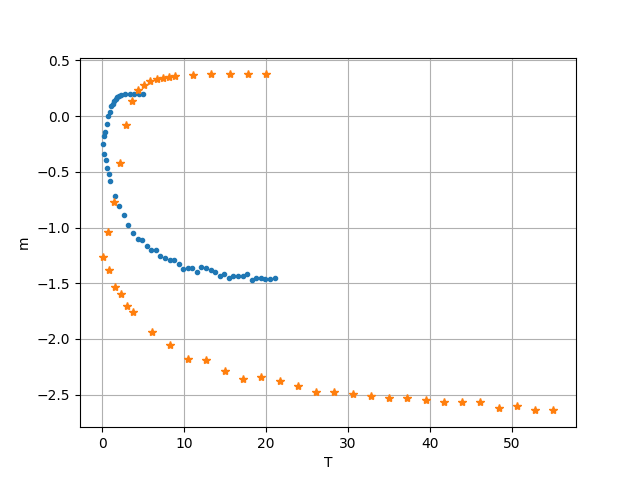
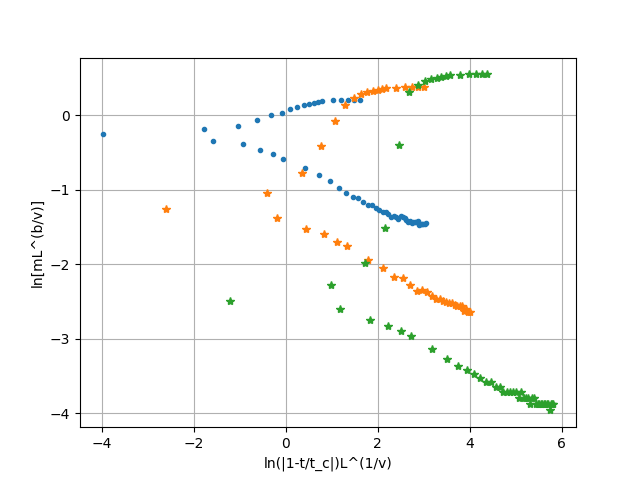
dziala

diff --git a/plot.py b/plot.py
@@ -15,22 +15,29 @@ f33= " opt33"
 b = 0.125
 v = 1 
 def transform_data(x,y,L):
-    T_c = 2.69
-    print("x" , x)
-    print("y", y)
-    print("L", L)
+    T_c = 2.269
+    #print("x" , x)
+    #print("y", y)
+    #print("L", L)
     L_y=math.pow(L, b/v)
-    print("L_y", L_y)
+    #print("L_y", L_y)
     y_n = np.multiply(y,L_y)
-    print("y_n" , y_n)
+    #print("y_n" , y_n)
     y_n = [math.log(a) for a in y_n]
-    print("y_n" , y_n)
-    
+    #print("y_n" , y_n)
+    print(L) 
     L_x = math.pow(L,v)
+    print("Lx", L_x,) 
+    print("x \n",x)
     x_n = np.multiply(x, 1/T_c) 
-    x_n =  [b-1 for b in x_n] 
+    print("x_n \n",x_n)
+    x_n =  [-b+1 for b in x_n] 
+    print("-x_n+ 1 \n",x_n)
+
     x_n = [abs(a) for a in x_n ]
+    print("abs x_n \n",x_n)
     x_n = np.multiply(x_n,L_x)  
+    x_n = [math.log(a) for a in x_n]
     return x_n, y_n  
 
 print("STARTING ...")
@@ -53,11 +60,17 @@ if(option  == " 3 " ):
     y = data[1]
     plt.plot(x, y,"*" )# Plot some data on the (implicit) axes.
 
+    data = pd.read_csv("opt33",sep=' ,',header=None, engine = 'python')
+    data = pd.DataFrame(data) 
+    
+    x = data[0]
+    y = data[1]
+    plt.plot(x, y,"*" )# Plot some data on the (implicit) axes.
     plt.xlabel('T')
     plt.grid(1,'major')
     plt.ylabel('m')
-    plt.savefig("L520"+".png")
-    os.system("chromium " + "L520" +".png")
+    plt.savefig("Magnetyzacja"+".png")
+    os.system("chromium " + "Magnetyzacja" +".png")
     
     command = "main.out" + t + 20 + option  + ">" + f32 +" "  
     os.system("./" + command)
@@ -82,11 +95,21 @@ if(option == " 4 "):
     x,y = transform_data(x,y,20)
     plt.plot(x, y,"*" )# Plot some data on the (implicit) axes.
 
+    data = pd.read_csv("opt33",sep=' ,',header=None, engine = 'python')
+    data = pd.DataFrame(data) 
+    
+    x = data[0]
+    y = data[1]
+    x,y = transform_data(x,y,80)
+
+    plt.plot(x, y,"*" )# Plot some data on the (implicit) axes.
     plt.xlabel('T')
     plt.grid(1,'major')
-    plt.ylabel('m')
-    plt.savefig("wykres"+".png")
-    os.system("chromium " + "wykres" +".png")
+    plt.xlabel('ln(|1-t/t_c|)L^(1/v)')
+    plt.ylabel('ln[mL^(b/v)]')
+    plt.savefig("skalowanie"+".png")
+    plt.show()
+    os.system("chromium " + "skalowanie" +".png")
     
 
 if(option  == " 1 "):

diff --git a/main.cpp b/main.cpp
@@ -17,8 +17,8 @@ int main(int argc, char* argv[] )
      float t=atof(argv[1]);
      int L = atoi(argv[2]);
      
-     float inter_1 = 0.3;
-     float inter_2 = 0.1;
+     float inter_1 = 0.1;
+     float inter_2 = 0.05;
      float T_tab[100];  
    sf::Color kolor1(255,80,10);
    sf::Color kolor2(10,80,255);
@@ -32,7 +32,7 @@ int main(int argc, char* argv[] )
      { 
 	     T_tab[0]=0;
 
-	for(int i =1 ;i<47; i++)
+	for(int i =1 ;i<60; i++)
 	{  
 
      	IM_ptr->Iteration(grid_ptr,atoi(argv[3]),T_tab[i-1]);
